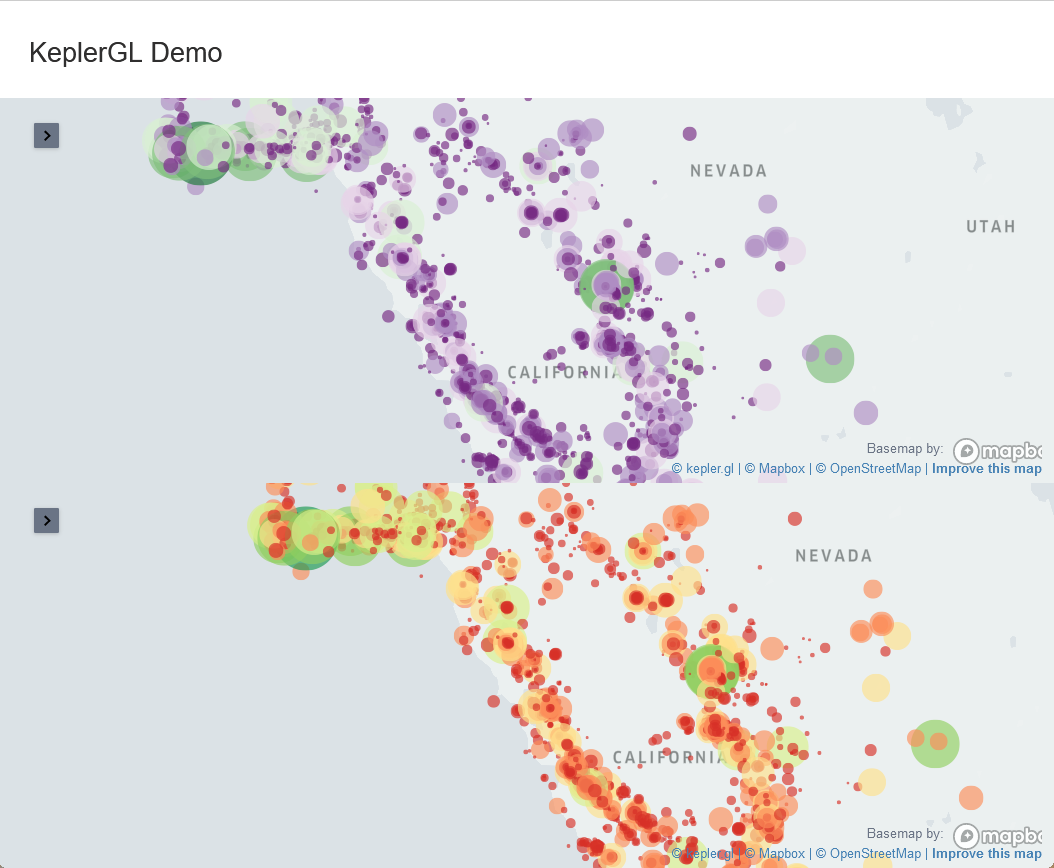
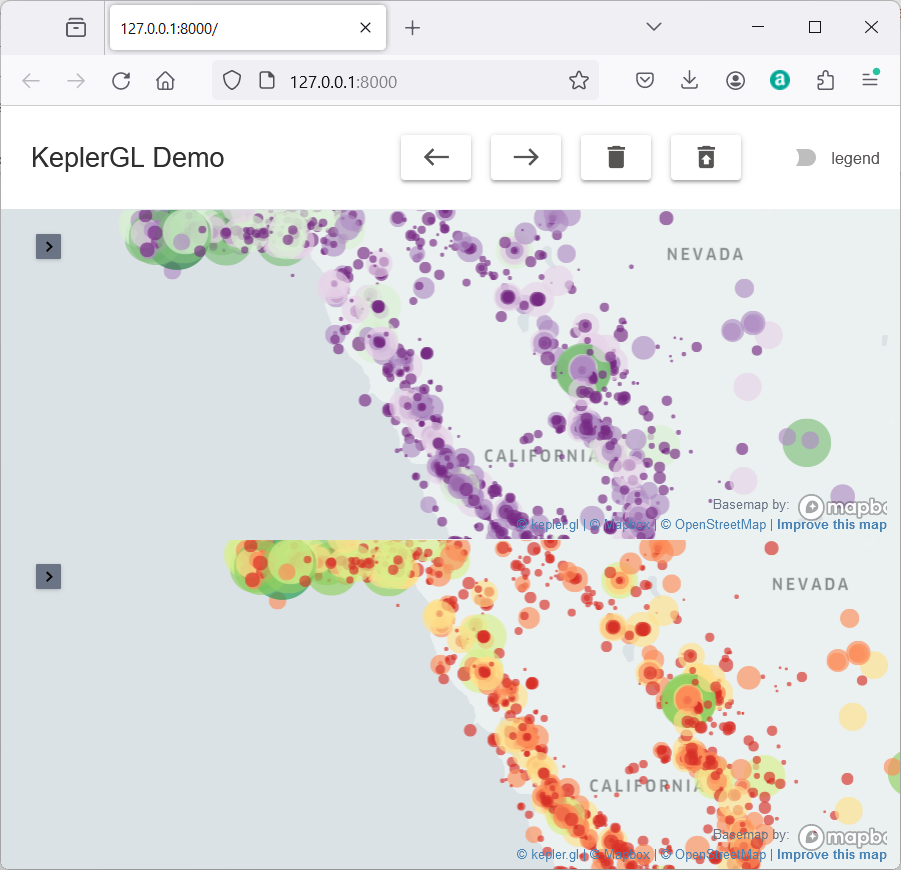
update README

diff --git a/README.md b/README.md
@@ -29,10 +29,10 @@ using CSV
 using Colors
 using ColorBrewer
 
-keplergl_path = dirname(dirname(pathof(isdefined(@__MODULE__, :KeplerGLBase) ? KeplerGLBase : KeplerGL)))
-df = CSV.read("$keplergl_path/assets/example_data/data.csv", DataFrame)
+keplergl_path = Base.pkgdir(isdefined(@__MODULE__, :KeplerGLBase) ? KeplerGLBase : KeplerGL)
+df = CSV.read(joinpath(keplergl_path, "assets", "example_data", "data.csv"), DataFrame)
 
-token = "token please"   
+# token = "token please"
 
 m1 = KeplerGL.KeplerGLMap(token, center_map=false)
 
@@ -62,24 +62,78 @@ m2.config[:config][:mapState][:longitude]= -122.42806781055732
 m2.config[:config][:mapState][:zoom] = 4.886825331541375
 m2.window[:map_legend_show] = m2.window[:map_legend_active] = m2.window[:visible_layers_show] = m2.window[:visible_layers_active] = false
 
+d1, d2 = m1.datasets, m2.datasets
+
 @app begin
     @out map1 = m1
     @out map2 = m2
+    @in clear_data = false
+    @in restore_data = false
+    @in show_legend = false
+    @in go_west = false
+    @in go_east = false
+
+    @onbutton clear_data begin
+        __model__["map1.datasets"] = []
+        __model__["map2.datasets"] = []
+    end
+
+    @onbutton restore_data begin
+        __model__["map1.datasets"] = d1
+        __model__["map2.datasets"] = d2
+    end
+
+    @onbutton go_west begin
+        map1.config[:config][:mapState][:longitude] -= 1
+        __model__["map1.config.config.mapState.longitude"] = map1.config[:config][:mapState][:longitude]
+
+        map2.config[:config][:mapState][:longitude] -= 1
+        __model__["map2.config.config.mapState.longitude"] = map2.config[:config][:mapState][:longitude]
+    end
+
+    @onbutton go_east begin
+        map1.config[:config][:mapState][:longitude] += 1
+        __model__["map1.config.config.mapState.longitude"] = map1.config[:config][:mapState][:longitude]
+
+        map2.config[:config][:mapState][:longitude] += 1
+        __model__["map2.config.config.mapState.longitude"] = map2.config[:config][:mapState][:longitude]
+    end
+
+    @onchange show_legend begin
+        __model__["map1.window.map_legend_show"] = show_legend
+        __model__["map2.window.map_legend_show"] = show_legend
+
+        # alternatively, one could use the following lines to show the legend via the backend
+        # but this will transmit the full map data to the frontend
+
+        # map1.window[:map_legend_show] = show_legend
+        # notify(map1)
+    end
 end
 
 @deps StippleKeplerGL
-isdefined(@__MODULE__, :register_global_components) && Stipple.register_global_components("VueKeplerGl", legacy = true)
+isdefined(Stipple, :register_global_components) && Stipple.register_global_components("VueKeplerGl", legacy = true)
 
 ui() = [
     column(class = "full-height", [
-        h5(class = "col-auto q-pl-lg q-pt-md", "KeplerGL Demo", style = "padding-bottom: 0.5em")
+        row(col = :auto, class = "items-center", [
+            h5(class = "col-auto q-pl-lg q-py-md", "KeplerGL Demo")
+            cell()
+            btn(col = :auto, "", icon = "west", @click(:go_west), class = "q-mr-md", [tooltip("go west")])
+            btn(col = :auto, "", icon = "east", @click(:go_east), class = "q-mr-md", [tooltip("go east")])
+            btn(col = :auto, "", icon = "delete", @click(:clear_data), class = "q-mr-md", [tooltip("clear data")])
+            btn(col = :auto, "", icon = "restore_from_trash", @click(:restore_data), class = "q-mr-md", [tooltip("restore data")])
+            toggle(col = :auto, "legend", :show_legend, class = "q-mr-md")
+        ])
+        
         cell(keplergl(:map1, ref = "map1", id = "map1"))
         cell(keplergl(:map2, ref = "map2"))
     ])
 ]
 
 route("/") do
-    # global model
+    # uncomment next line for testing / debugging
+    global model
     model = @init
     page(class = "fixed-full", model, ui) |> html
 end
